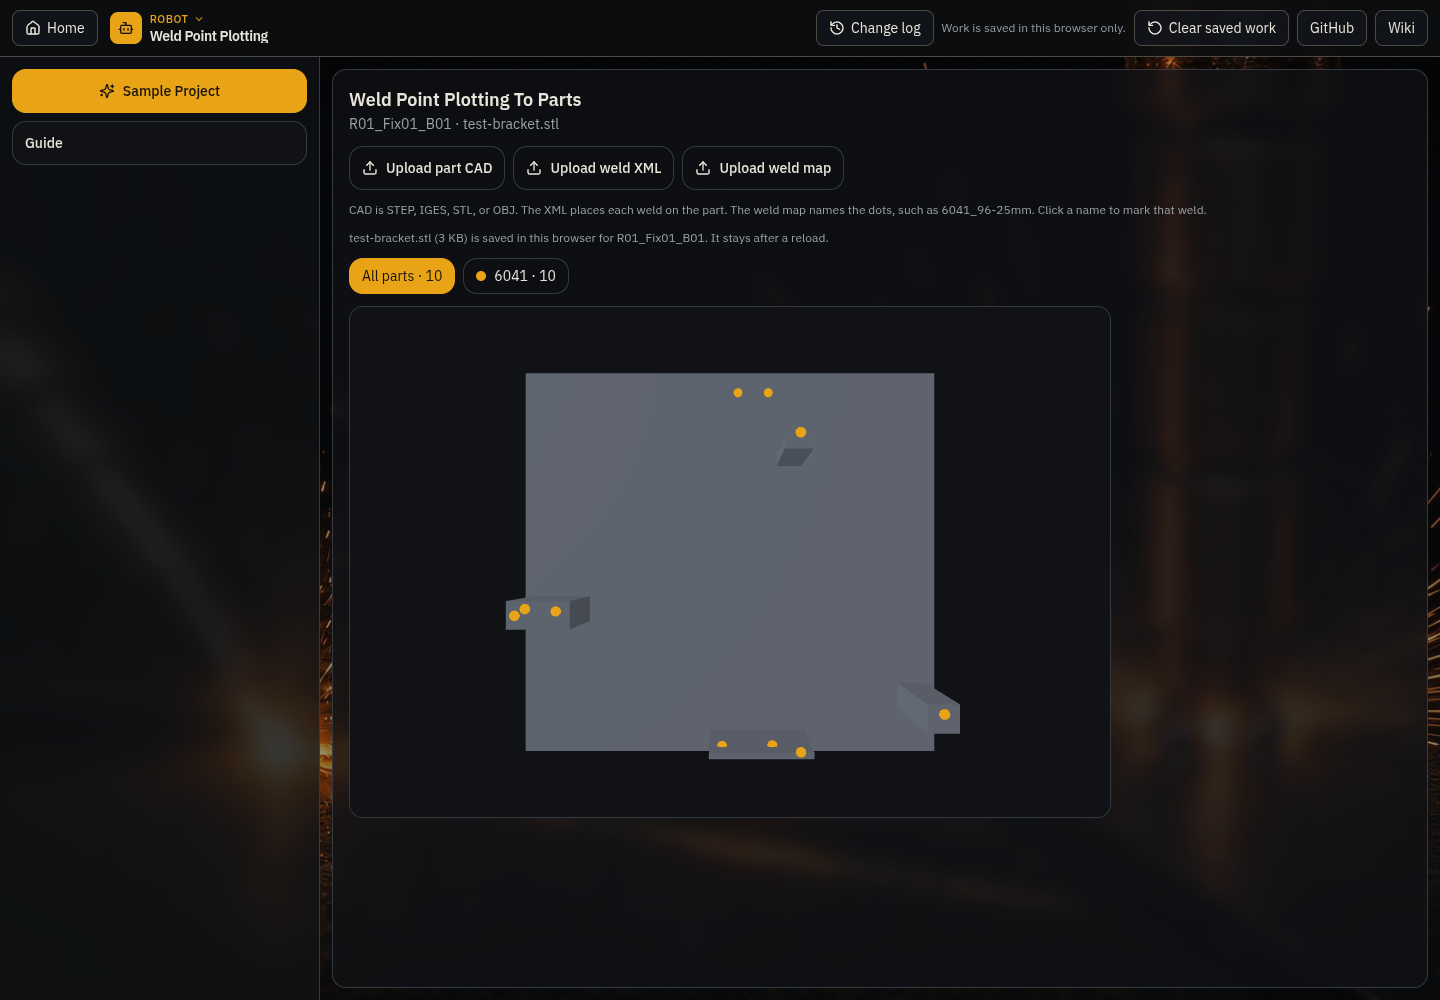
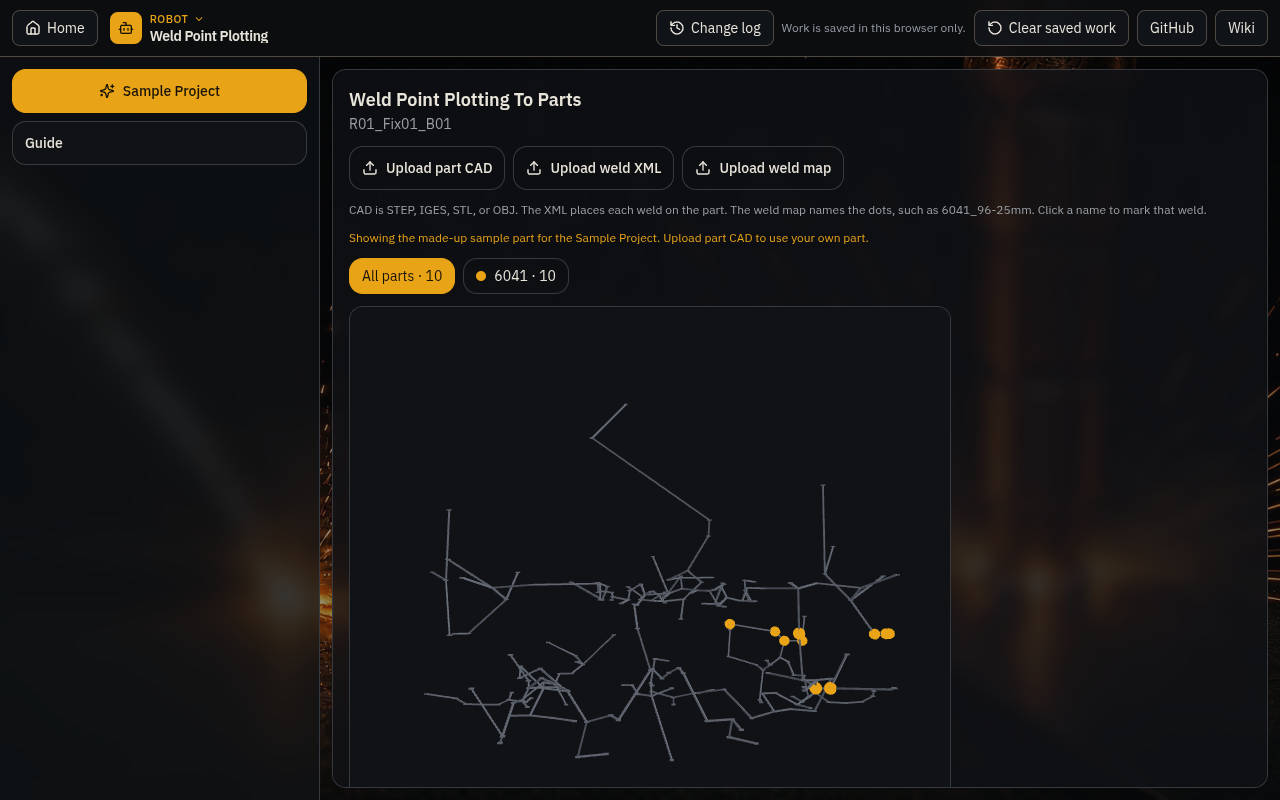
GTAC VC Tools: PM Hub Status emails and shared milestones, Project Board Connect GitHub / Back to live, Robot samples and changed-line view, Zone Forge sample and Guide, Mark in credits; new screenshots

diff --git a/GTAC VC Tools/GTAC VC Tools.md b/GTAC VC Tools/GTAC VC Tools.md
@@ -2,7 +2,7 @@
 
 GTAC VC Tools is the shop app for laying out a cell, trimming the SSCC61x framework, drawing the EtherCAT trunk, and generating fixture and weld outputs.
 
-Designed and built by Brandon, Dave, Mikey, and Richard, the guy that is never here.
+Designed and built by Brandon, Dave, Mark, Mikey, and Richard, the guy that is never here.
 
 Home has two sections. Robot holds the weld tools. PLC holds the TwinCAT tools. Project Board, PM Hub, GitHub, Wiki, and Local Server sit in the row underneath.
 
@@ -52,9 +52,9 @@ The drop-down shows the section and the tool you are in, such as ROBOT, Weld Spl
 
 ![PLC drop-down](./images/plc-menu.png)
 
-- **Guide**: Weld tools, Fixture Forge, TC Forge, and Controls Forge each have their own Guide. Click it again to close it.
-- **Sample data**: The weld tools have Sample Project on the left. It loads the Front Bumper programs and that weld map. Click it again to clear it. Loading your own .src or zip turns the sample off. Fixture Forge has Load sample cell and Controls Forge has Load sample.
-- **Change log**: Weld tools and Fixture Forge list what changed and when. It opens without a password.
+- **Guide**: Weld tools, Zone Forge, Fixture Forge, TC Forge, and Controls Forge each have their own Guide. Click it again to close it.
+- **Sample data**: The weld tools have Sample Project on the left. It loads the Front Bumper programs and that weld map. Click it again to clear it. Loading your own .src or zip turns the sample off. On Weld Point Plotting the sample also shows a made-up part. Zone Forge has its own Sample Project, a made-up two-robot cell. Fixture Forge has Load sample cell and Controls Forge has Load sample. The weld and Zone Forge samples are made up, not a real job.
+- **Change log**: the clock button lists what changed in that tool and when: Robot tools, Fixture Forge, Project Board, PM Hub and Zone Forge each have one. It opens without a password.
 - **Saved work**: Work is saved in this browser only. It is still there after a refresh, but not on another PC or in another browser. Clear saved work resets that tool in this browser and cannot be undone.
 
 ## Robot
@@ -77,9 +77,9 @@ After you fix points in simulation, Upload Fixed Job from PRS takes the Process 
 
 ### Weld Point Plotting
 
-![Weld Point Plotting with a test part](./images/weld-plot-part.png)
+![Weld Point Plotting with the sample part](./images/weld-plot-part.png)
 
-Plot the weld points onto the part each weld belongs to. Upload part CAD takes a STEP, IGES, STL, or OBJ. Upload weld XML places each weld on the part. Upload weld map is the PowerPoint that labels each dot. Click a name in the list to mark that weld. Drag to rotate.
+Plot the weld points onto the part each weld belongs to. With Sample Project on, a made-up frame shows with the sample weld points on it, and a line says it is the sample part; your own upload replaces it. Upload part CAD takes a STEP, IGES, STL, or OBJ. Upload weld XML places each weld on the part. Upload weld map is the PowerPoint that labels each dot. Click a name in the list to mark that weld. Drag to rotate.
 
 The part is saved in this browser for the program that is loaded, so each project keeps its own part. It comes back after a reload, and a note under the buttons says so. A part can be up to 200 MB. A bigger file still shows, but has to be uploaded again after a reload. Like other saved work, it is not on another PC or in another browser.
 
@@ -89,8 +89,8 @@ The weld dots show only on a part that has loaded. A weld XML on its own does no
 
 ![Weld Point Plotting with no part saved](./images/weld-plot-no-part.png)
 
-- **No part:** the plot area says Upload the part CAD to see the N weld points on it. The banner says Part file not saved in this browser, upload it again, with an Upload part CAD button. If a part is saved for another project, a Use button offers it.
-- **Loading:** the plot area says Loading the saved part… until the part is read.
+- **No part:** the plot area says Upload the part CAD to see the N weld points on it. The banner says what is missing: Load a program first, No part uploaded yet for the program, or that a part uploaded before is no longer in this browser (or was too big to keep), with an Upload part CAD button. Without the weld XML it adds that the dots use robot coordinates. If a part is saved for another project, a Use button offers it.
+- **Loading:** the plot area says Loading the saved part… until the part is read. A STEP or IGES file is read in the background with a progress line (Downloading the STEP reader… the first time, then Reading the STEP file…), so the page stays usable.
 - **The part could not be shown:** the plot area stays empty and the banner gives the reason, with no dots. Try a STEP (AP214 or AP242) or STL export and upload it again. A file that does not load is not saved, so a good part saved earlier is kept.
 - **Weld points are not on the part:** their X Y Z come from the robot program. Upload the weld XML to place them on the part.
 
@@ -100,6 +100,8 @@ The view frames the part and the weld points together. Clear saved work also cle
 
 Turn a Process Simulate download into ArcTech. Load one job, or Upload jobs for a zip or several .src files. UNKNOWN MOTION FOLD comes back as ArcOn, ArcSwi, and ArcOff. The .dat is not changed.
 
+Before Download, each program's changed lines show, removed in red and added in green, with the count under Download, such as 320 lines added. Open a program's section to see its lines; long lists show the first 30 changes and Show all.
+
 ### Cycle Time Analysis
 
 Seam and travel time from the weld map and the programs. Upload weld map and choose the PowerPoint. The seam time uses the millimetres on each weld label, such as 6041_96-25mm, divided by the weld speed. Load the program and the .dat on the left for a second table that adds travel between the points. Download analysis saves the tables as an Excel file. Blending and acceleration are not included, so a real cycle runs a bit longer.
@@ -108,11 +110,19 @@ Seam and travel time from the weld map and the programs. Upload weld map and cho
 
 Turn ArcOn, ArcOff, and ArcSwi into LIN moves. Load one .src and .dat, or Upload jobs zip for several. ArcOn and ArcOff become a fine LIN at 0.01 m/s. ArcSwi stays a LIN with C_DIS. A comment such as ; was ARCON WDAT1 marks each line so the arc can be taught again on the robot. The .dat files are not changed.
 
+![Strip Arc to LIN with the changed lines](./images/strip-diff.png)
+
+Before Download, each program's changed lines show, removed in red and added in green, and the count shows under Download, such as 572 lines removed, 225 added. If nothing changes it says so: Download would give back the same files.
+
 ### Zone Forge
 
 Fill in the interference-zone handshakes. Drop the KUKA programs and their .dat files, with the same name for both, such as R01_Fix01.src and R01_Fix01.dat. Process Simulate marks the last point before an interference volume and the first point after it.
 
 Pick PLC bits or OLP sync. With PLC bits, assign one bit per pair of robots. 106 is the first pair, and robot interference uses 106 to 112. Bit 105 is the trunnion, or table, turn. Change a number to match the zone on the fixture, check What gets added, then Download the programs.
+
+![Zone Forge with the Sample Project](./images/zone-forge.png)
+
+Sample Project loads a made-up two-robot cell (R01_Fix01 and R02_Fix01) to try it; dropping your own programs replaces it. Guide lists the steps. The trunnion settings show only when the programs have trunnion comments; otherwise a line says there are none. When the programs already have every handshake, it says Nothing to change. Download would give back the same files.
 
 ## PLC
 
@@ -134,7 +144,7 @@ Workbook columns the generator reads:
 
 Sequence packs as part present, then clamps, pins, slides, and nut checks. Each new device type starts on port 0 of the next node. If a group ends on ports 0–6, the rest of that node is spare. Unused hardware is tagged Node Not Used.
 
-On the TcHMI page, the layout can take the whole window. The left panel and the top band slide away. Click the arrow to bring them back. A screen you added can be deleted. The objects that were placed on it clear, so they can be placed again.
+On the TcHMI page, the Layout tab is where devices are placed on the fixture picture: Sample fixture or Upload image, then click where each arrow points. On a phone the text sits above the buttons. For the code files, Preview and Source switch between the drawn screen and the code. The layout can take the whole window. The left panel and the top band slide away. Click the arrow to bring them back. A screen you added can be deleted. The objects that were placed on it clear, so they can be placed again.
 
 A fixture workbook from GitHub opens in this app.
 
@@ -183,6 +193,10 @@ A cell PDF from GitHub can open here or in TC Forge.
 Which cell is late, who is loaded, and its GitHub repo. Red (At risk) is late or has less time left than work left. Yellow (Tight) is due within 14 days. Blue (On track) still has room.
 
 The board reads the VC_Project_Board list from the private VC-Project-Board repository on GitHub, using the GitHub token connected in this browser. Refresh reads it again. If GitHub cannot be read, the last copy stays on screen, and Drop export under More works too.
+
+![Project Board without GitHub connected](./images/board-not-connected.png)
+
+Without a GitHub token, an amber line under the header says the board is not connected and whether it is showing the last copy read in this browser, with a Connect GitHub button. Once the token is saved the board reads the live list by itself. While a dropped export is showing, the line says so, with Back to live.
 
 Search, PM, Assigned and Assigned to me narrow the jobs. The chips are Needs attention, At risk, Tight, On track, No date, Completed and All.
 
@@ -243,15 +257,23 @@ Each job in PM Hub also has a Customer picker: assign or change it for this job 
 
 The list is saved to pm-hub/customers.json in the private Sodecia-GTAC/VC-Project-Board repository, so both PMs see the same list. Others see a change after Refresh. If someone else saved first, PM Hub reloads the list, keeps what you typed, and asks you to Save again.
 
-### Kept in this browser
+### Shared milestones and notes
 
-Milestones, ticks and PM notes stay in this browser only. Export saves them (and a copy of the customer list) to a file. Import puts them back, on another PC for example.
+Milestones, ticks and PM notes are shared with the team in pm-hub/milestones.json in the same repository. They are saved a few seconds after a change, or with Save. If two people change the same job, PM Hub merges what it can and asks you to Save again. Without Write access they stay in this browser until they can be saved. Export saves them (and a copy of the customer list) to a file. Import puts them back.
 
-Status emails says coming later. Nothing is sent from there yet.
+When the Timeline has nothing to show, it says why (the No date filter, completed jobs hidden, or no dated jobs) with Show open jobs or Clear filters.
+
+### Status emails
+
+![PM Hub Status emails](./images/pmhub-status-email.png)
+
+Status emails (?view=email) writes a plain-text update to send to a customer. Choose One customer and pick the customer, or Pick jobs and tick them. The text has a subject, a greeting with the customer's main contact, and one line per job: its status (Done, Behind schedule, At risk, Due soon or On track), due date, days left or late, % complete and the next milestone. Done jobs are left out unless Include done jobs is ticked.
+
+Copy puts the text on the clipboard. Open in email app opens your own email program with it, addressed to the customer's contact email; a very long update opens with the subject only, so copy the text in. Read it before you send. Nothing is sent or saved from PM Hub.
 
 ### Access
 
-You need your classic GitHub token (repo scope), authorized for SSO; see [GitHub](#github). To save customers you also need Write access to VC-Project-Board. Ask Dave. Without it, the Customers tab is read-only.
+You need your classic GitHub token (repo scope), authorized for SSO; see [GitHub](#github). To save customers, milestones and notes for everyone you also need Write access to VC-Project-Board. Ask Dave. Without it, the Customers tab is read-only and milestones stay in your browser.
 
 ## GitHub
 
